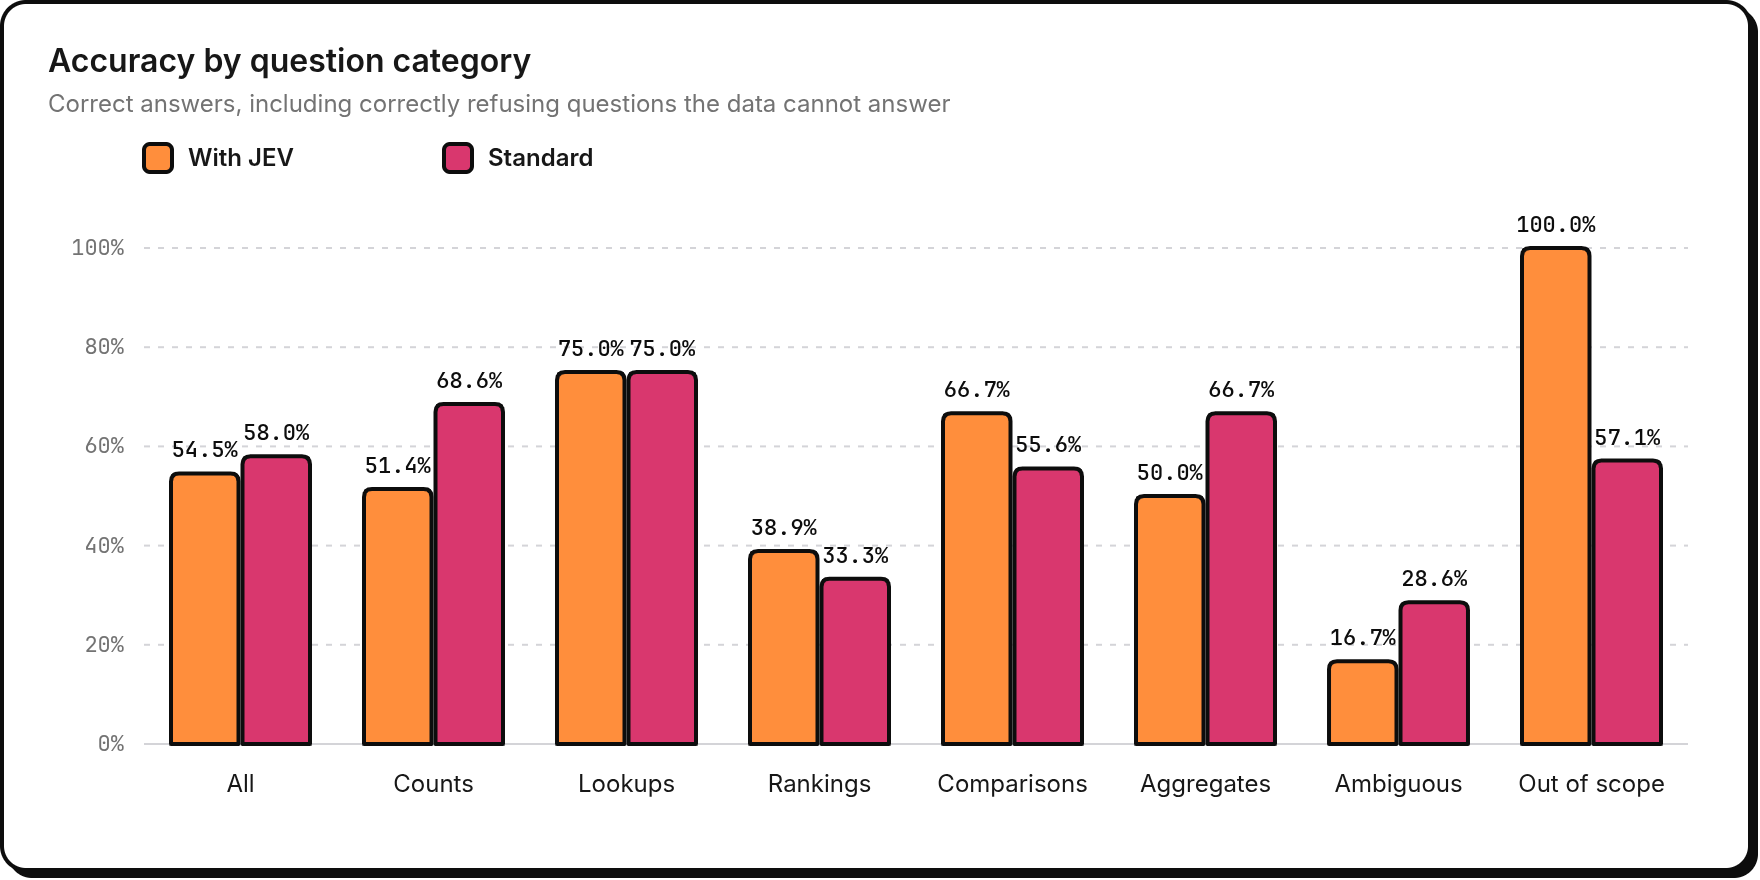
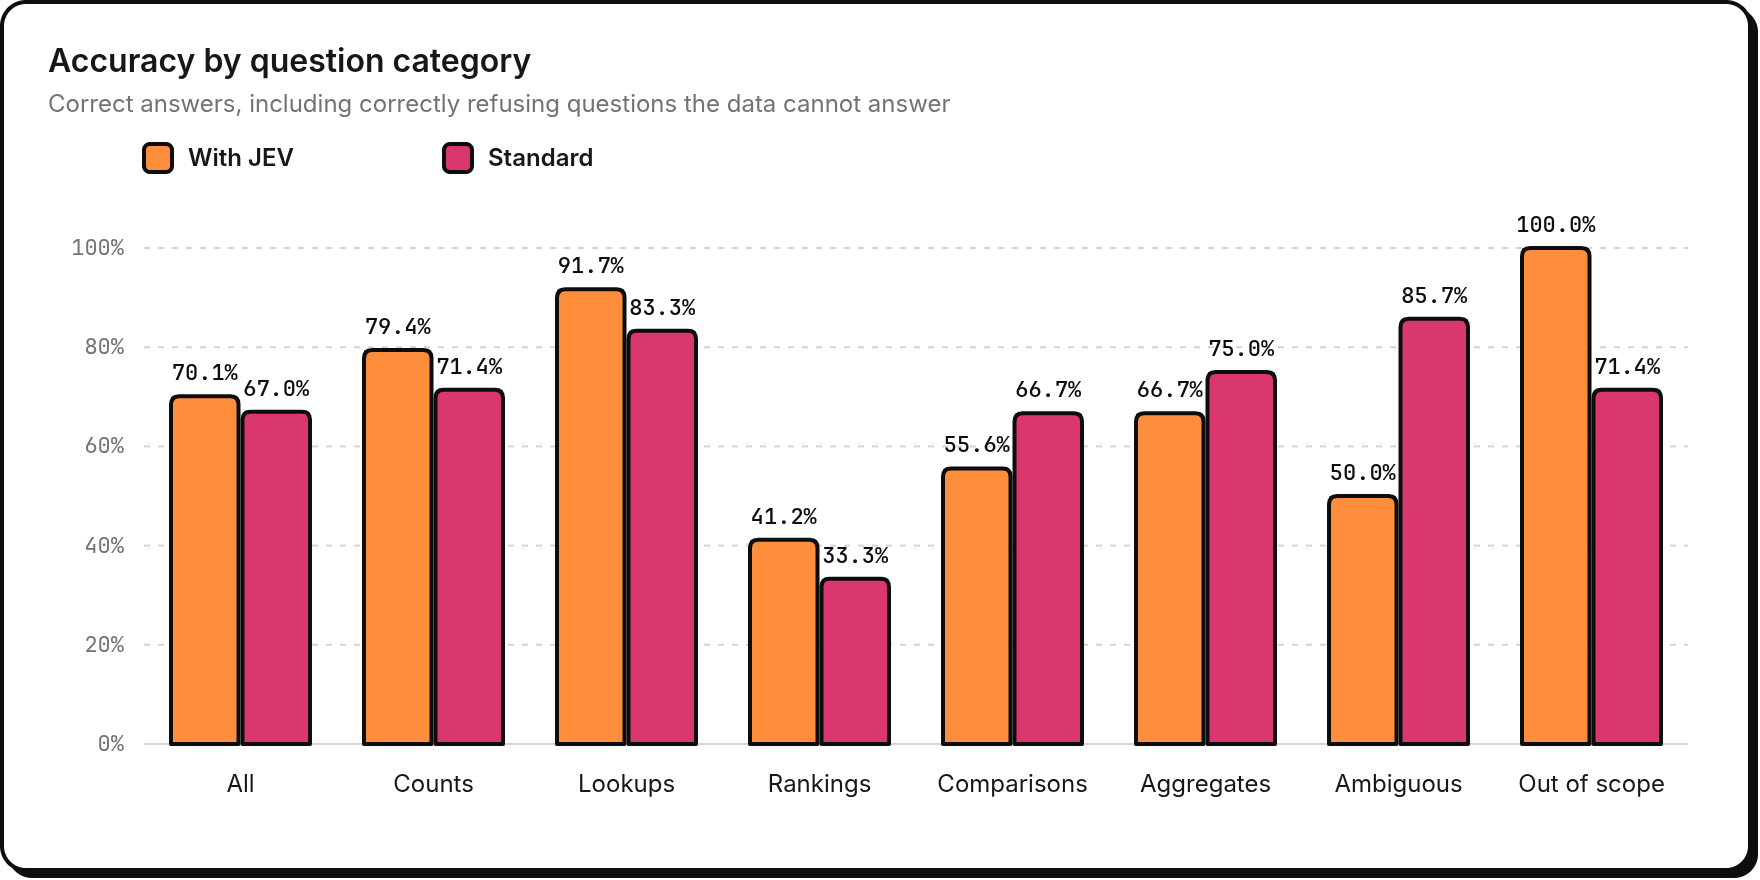
docs: show gpt-6-sol benchmark results and config.yaml setup

diff --git a/README.md b/README.md
@@ -46,7 +46,8 @@ See [docs/features.md](docs/features.md) for how each piece works.
 
 100 questions written like a real user would ask them, without looking at the schemas. 75 can
 be answered with the data and 25 cannot (out-of-scope topics or data that is not loaded), so
-the benchmark also measures hallucinations. Both agents use `gpt-5.6-luna` as the executor.
+the benchmark also measures hallucinations. Both agents use `openai/gpt-6-sol` (through
+OpenRouter) as the executor, and see the same 30 Postgres databases.
 
 <p align="center">
   <img src="assets/benchmark/accuracy.png" width="760" alt="Accuracy by question category" />
@@ -62,31 +63,37 @@ the benchmark also measures hallucinations. Both agents use `gpt-5.6-luna` as th
 
 | Metric | With Jev routing | Standard agent |
 | --- | --- | --- |
-| Accuracy on answerable questions | 48.6% | **61.3%** |
-| Hallucination rate on unanswerable questions | **28.0%** | 52.0% |
-| Out-of-scope questions answered correctly | **100%** | 57.1% |
-| Average input tokens per question | **12,372** | 74,150 |
-| Latency p50 | **9.3 s** | 14.0 s |
-| Executor time (average) | **8.9 s** | 14.8 s |
-| Latency p95 | 38.9 s | **28.7 s** |
+| Accuracy on answerable questions | 59.7% | **62.7%** |
+| Hallucination rate on unanswerable questions | **0.0%** | 20.0% |
+| Out-of-scope questions answered correctly | **100%** | 71.4% |
+| Average input tokens per question | **11,071** | 66,665 |
+| Estimated cost per question (list price) | **$0.026** | $0.138 |
+| Latency p50 | **13.6 s** | 14.3 s |
+| Executor time (average) | **11.6 s** | 16.7 s |
+| Latency p95 | 42.2 s | **37.9 s** |
 
 **p50** is the median: half of the questions were answered faster than that. **p95** is the
 tail: 95% were faster and the slowest 5% took longer, so it shows the worst typical case.
 
 What the numbers say:
 
-- **Routing cuts input tokens by ~6x** and makes the executor ~40% faster, because the LLM no
+- **It never hallucinated.** On the 25 questions the data cannot answer, the routed agent
+  always said so; the standard agent invented an answer in 1 of every 5.
+- **Overall it is more accurate: 70.1% vs 67.0%.** It is 3 points behind on answerable
+  questions but ahead on counts, lookups and rankings; it loses on ambiguous questions, where
+  reading every schema helps guess what the user meant.
+- **Routing cuts input tokens by ~6x** and makes the executor ~30% faster, because the LLM no
   longer reads 30 schemas.
-- **It hallucinates far less.** When the data is not there, the router stops the question
-  before the LLM can invent an answer.
-- **It is less accurate on answerable questions.** Most of the gap comes from the router
-  discarding a database that was actually needed (threshold and catalog descriptions still
-  need calibration).
-- **The p95 latency is dominated by AI Gateway retries during outages**, not by Jev itself;
-  warm routing takes about 1 s.
+- **It is cheaper, by less than the tokens suggest.** At list price it costs about 5x less
+  per question; the billed difference is smaller (roughly 2-3x in spot checks) because the
+  standard agent's repeated prompt benefits from prompt caching.
+- **The p95 latency is dominated by AI Gateway retries during outages**, not by Jev itself:
+  Jev spends about 0.15 s per call inside the provider.
 
-Treat these as a first baseline rather than a verdict: thresholds are not tuned yet and 23
-answers were flagged for manual review.
+Treat these as a baseline rather than a verdict: thresholds are not tuned yet, 3 routed runs
+failed on gateway outages (excluded), and 27 answers were flagged for manual review. Earlier
+runs with `gpt-5.6-luna` showed the same token savings but a larger accuracy gap (49% vs
+61%), so a stronger executor narrows the difference.
 
 ## Install
 
@@ -98,8 +105,9 @@ OpenAI or OpenRouter key (for the executor).
 git clone https://github.com/JoseVelazcoH/system-one-sql-agent.git
 cd system-one-sql-agent
 pnpm install
-cp .env.example .env   # fill in the keys and the Postgres connection
-pnpm catalog           # build catalog.json from your databases
+cp config.example.yaml config.yaml   # your model, databases and benchmark files
+cp .env.example .env                 # your API keys and database password
+pnpm catalog                         # build catalog.json from your databases
 ```
 
 `catalog.json` holds a short description of every database and table. **Routing quality
@@ -127,18 +135,44 @@ pnpm bench:refresh     # re-run the gold SQL to check the answers are still vali
 
 ## Configuration
 
-| Variable | Default | Purpose |
-| --- | --- | --- |
-| `AI_MODEL` | - | Executor as `provider:model`, e.g. `openrouter:openai/gpt-5.6-luna` |
-| `AI_MODEL_API_KEY` | - | Key for the executor provider |
-| `AI_MODEL_TEMPERATURE` | `0.1` | Ignored by reasoning models |
-| `AI_GATEWAY_API_KEY` | - | Vercel AI Gateway key, used for Jev |
-| `ROUTER_THRESHOLD` | `0.5` | Minimum Jev probability for a database to be used |
-| `TABLE_THRESHOLD` | `0.6` | Minimum Jev probability for a table to be preloaded |
-| `MAX_PRELOADED_TABLES` | `6` | Cap on preloaded tables, to keep the prompt small |
-| `EXCLUDED_DATABASES` | - | Databases never offered to the router |
-| `PGHOST`, `PGPORT`, `PGUSER`, `PGPASSWORD` | - | Standard Postgres connection settings |
-| `HOST`, `PORT` | `127.0.0.1`, `3000` | Where the UI listens |
+Everything that is specific to you lives in two files that git ignores:
+
+- **`config.yaml`**: your executor model, router thresholds, Postgres server, which databases to
+  use, and your benchmark files. Start from the commented
+  [`config.example.yaml`](config.example.yaml).
+- **`.env`**: secrets only. The YAML never holds a key: it names the variable that does
+  (`apiKeyEnv: AI_MODEL_API_KEY`), so a config file can be shared safely.
+
+```yaml
+executor:
+  provider: openrouter          # openai | openrouter
+  model: openai/gpt-5.6-luna
+  apiKeyEnv: AI_MODEL_API_KEY
+router:
+  databaseThreshold: 0.5
+  tableThreshold: 0.6
+postgres:
+  host: localhost
+  user: postgres
+  passwordEnv: PGPASSWORD
+  databases: [sales, hr, inventory]   # or `exclude: [...]` to use the rest of the server
+benchmark:
+  questions: my-data/questions.json
+  answers: my-data/answers.json
+```
+
+To bring your own benchmark, write your questions and gold answers in the format described in
+[docs/features.md](docs/features.md#bring-your-own-benchmark) and point `benchmark` at them.
+The repo ships an example dataset about public statistics of Mexico in
+[`examples/mexico-public-data`](examples/mexico-public-data).
+
+| Environment variable | Purpose |
+| --- | --- |
+| `AI_MODEL_API_KEY` | Executor provider key (name configurable) |
+| `AI_GATEWAY_API_KEY` | Vercel AI Gateway key, used by Jev |
+| `PGPASSWORD` | Postgres password (name configurable) |
+| `CONFIG_FILE` | Use another config file instead of `config.yaml` |
+| `HOST`, `PORT` | Where the UI listens (`127.0.0.1`, `3000`) |
 
 The UI has no authentication and `/bench` can start paid LLM runs, so it only listens on
 localhost by default. Put it behind authentication before exposing it with `HOST=0.0.0.0`.
